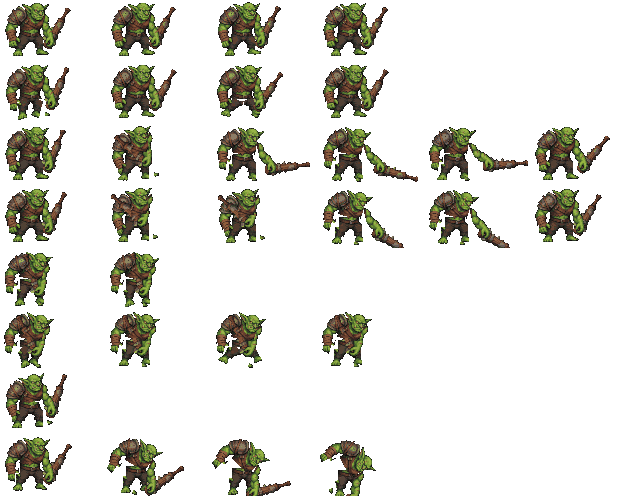
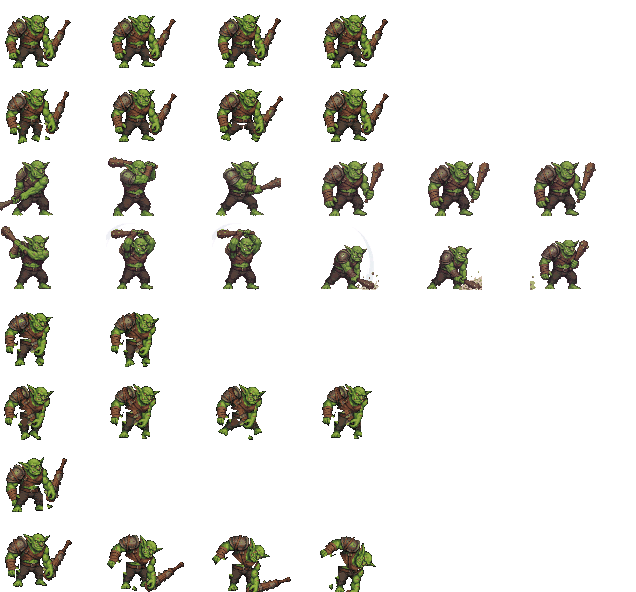
The Brute's swings are hand-animated now: Gemini redraws, not rotated parts
Per direction, the sweep and slam rows are no longer FK-rotated rig
cuts - each frame is a genuine redraw of the brute, generated through
the Gemini pipeline (stick-figure pose guides + the motion-trail trick,
single-pose reference, costume pinned in the prompt so the pauldron,
vest, belt and club survive every frame) and baked through the pixel
pipeline at the actor zoom.

The slam: cock across the shoulders, a held beat fully overhead, the
crushing impact with its painted trail and stone chips, the crater,
the recover - the impact frame lands on the engine's 0.72s hit beat
(row remap with a doubled overhead hold, fps 5). The sweep: low
windup, coiled raise, the cross-body strike on the 0.48s beat. Its
painted trail wrapped through the body and shredded the bake, so the
trail is stripped from the frames and the engine draws the swoosh
instead: melee enemies with slashFx get a slash-arc particle on the
strike beat, hit or miss.

Cells grow 106x62 -> 106x74 (the true overhead needs the headroom);
rig rows pad down unchanged. Gemini sources and pose guides are
archived in tools/spine/brute/gemini/, and relay.html is the local
popup relay that carries generated sheets out of the Gemini tab.

Verified live: slam 17 and sweep 9 on the test warrior, both on their
telegraph beats. 164/164 tests green.

diff --git a/relay.html b/relay.html
@@ -1,0 +1,20 @@
+<!DOCTYPE html>
+<html><head><meta charset="utf-8"><title>relay</title></head>
+<body style="background:#223;color:#dde;font-family:monospace">
+<div id=s>relay: waiting for opener…</div>
+<script>
+const say = (m) => { document.getElementById('s').textContent = 'relay: ' + m; };
+window.addEventListener('message', async (ev) => {
+  try {
+    const { name, buf } = ev.data || {};
+    if (!buf) { say('message without buffer'); return; }
+    say('got ' + buf.byteLength + ' bytes, posting…');
+    const r = await fetch('/shot?name=' + encodeURIComponent(name || 'gemini.png'), {
+      method: 'POST', body: buf,
+    });
+    say('posted: ' + r.status);
+    if (window.opener) window.opener.postMessage({ relayDone: true }, '*');
+  } catch (e) { say('error ' + e); }
+});
+if (window.opener) window.opener.postMessage({ relayReady: true }, '*');
+</script></body></html>

diff --git a/src/gfx/actorSheets.js b/src/gfx/actorSheets.js
@@ -103,13 +103,13 @@ const DEFS = {
   // a pawing windup loop and the head-down run.
   gob_brute: {
     sheet: 'assets/actors/gob_brute.png',
-    frameW: 106, frameH: 62, anchorX: 32, anchorY: 56,
+    frameW: 106, frameH: 74, anchorX: 32, anchorY: 68,
     scale: 1 / COMBAT_ACTOR_SCALE, logicalHeight: 26, shadowRadius: 15,
     anims: {
       idle:       { row: 0, frames: 4, fps: 5, loop: true },
       walk:       { row: 1, frames: 4, fps: 5, loop: true },
       attack:     { row: 2, frames: 6, fps: 6, loop: false },
-      slam:       { row: 3, frames: 6, fps: 6, loop: false },
+      slam:       { row: 3, frames: 6, fps: 5, loop: false },
       chargewind: { row: 4, frames: 2, fps: 6, loop: true },
       charge:     { row: 5, frames: 4, fps: 10, loop: true },
       hurt:       { row: 6, frames: 1, fps: 10, loop: false },

diff --git a/src/scenes/combat.js b/src/scenes/combat.js
@@ -754,6 +754,11 @@ export class CombatScene {
 
   _enemyHitPlayer(e) {
     const p = this.p;
+    // heavy swingers get a slash arc on the strike beat, hit or miss
+    if (e.def.slashFx) {
+      this.particles.spawn({ kind: 'slash', x: e.x + e.facing * 12, y: e.depth - 14,
+        dir: e.facing, r: 10, color: '#e8e0d0', life: 0.22 });
+    }
     if (Math.abs(p.x - e.x) <= e.def.reach + 6 && Math.abs(p.depth - e.depth) < 20 && p.z < 20) {
       this._hurtPlayer(e.def.attack, e.facing);
     }

diff --git a/src/game/data.js b/src/game/data.js
@@ -671,7 +671,7 @@ export const ENEMIES = {
     attackCd: 2.6, w: 22, telegraph: 'arc',
     // sweep hit rides the animation's strike beat; slam and charge come
     // from the brute archetype's own state machine
-    windup: 0.48, attackAnim: 1.0,
+    windup: 0.48, attackAnim: 1.0, slashFx: true,
     bloodColor: '#3f7a3f',
   },
   war_hound: {
